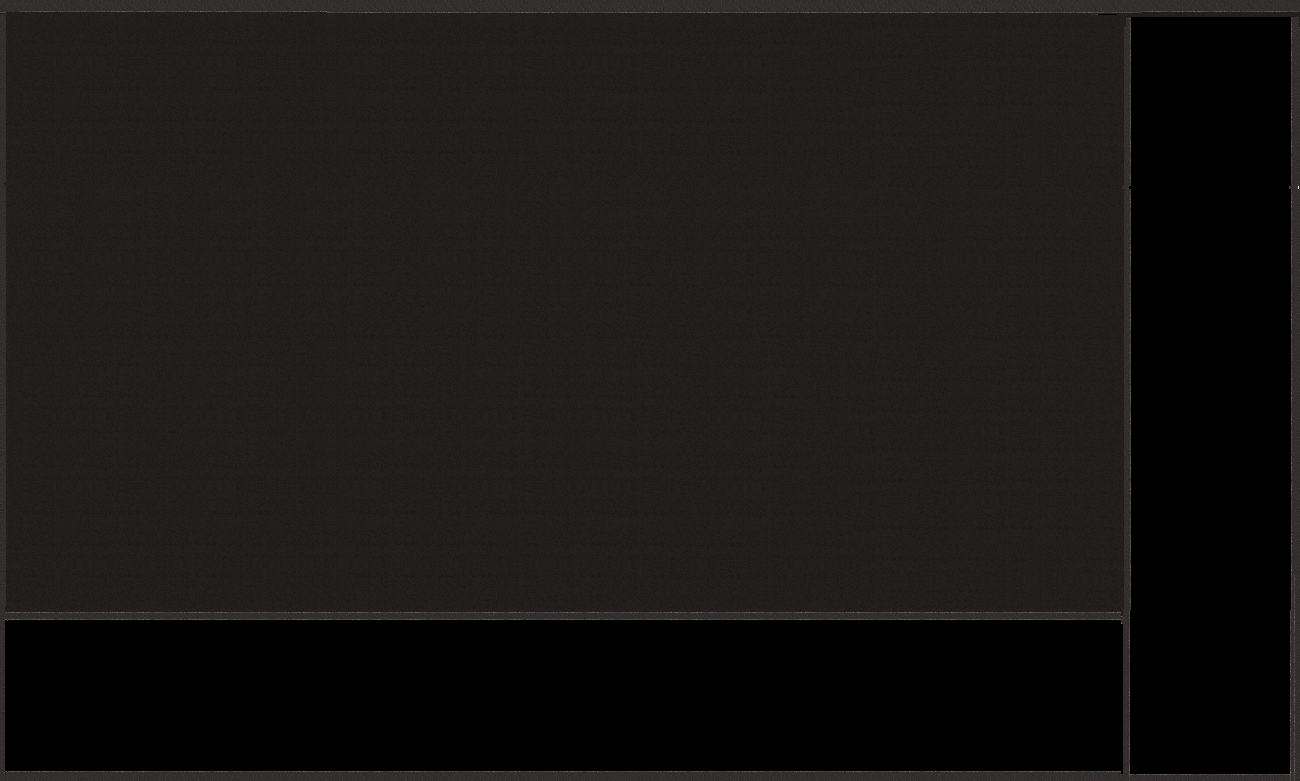
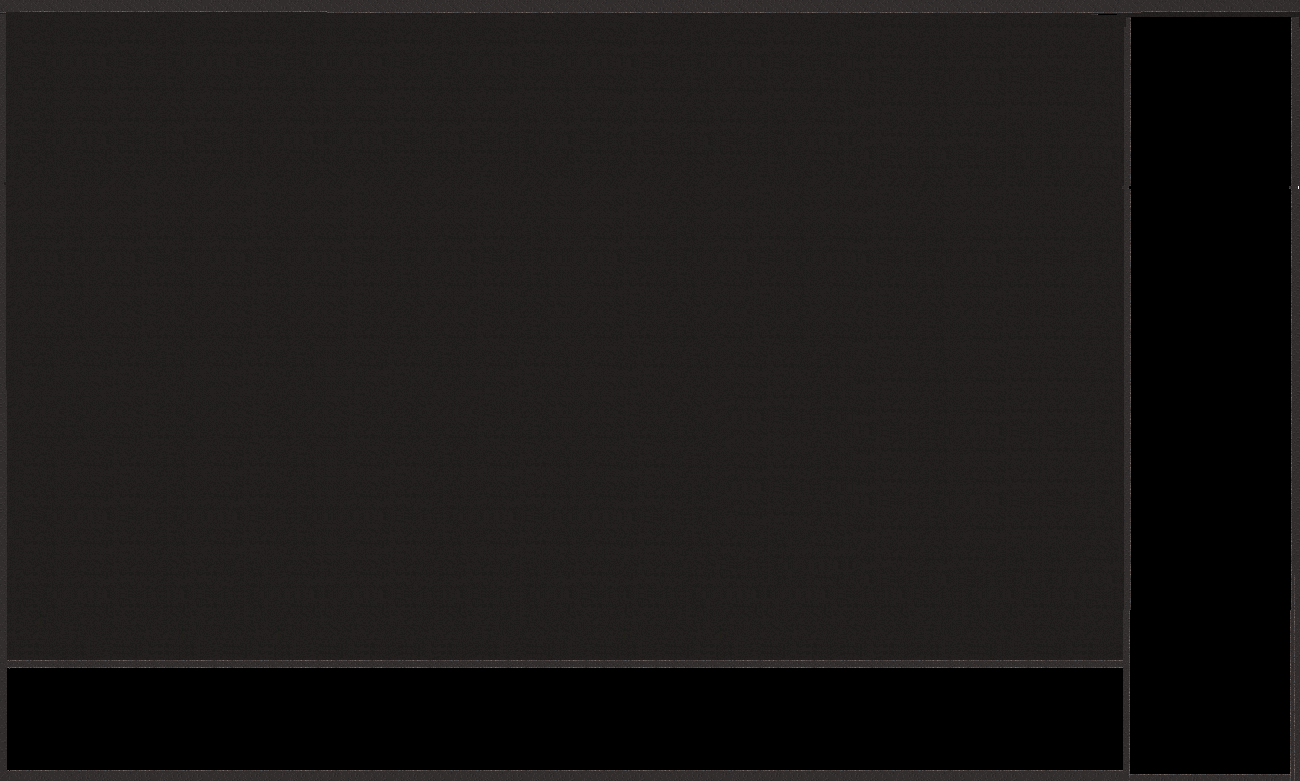
replacement des panels pour utilisateurs du grand plateau

Changed region(s): [[0.0, 0.7682, 0.8615, 0.8604], [0.0, 0.9834, 0.8615, 1.0]]

diff --git a/src/vue/PlateauVue.java b/src/vue/PlateauVue.java
@@ -70,6 +70,8 @@ public class PlateauVue extends JFrame {
 		xPanelsInfos = backgroundimage.getWidth()-157;
 		yGuide = backgroundimage.getHeight()-210;
 		
+		System.out.println(yGuide);
+		
 		PanelCompteur cmpt = new PanelCompteur();
 		this.plateau.add(cmpt,JLayeredPane.DRAG_LAYER );
 		
@@ -133,7 +135,7 @@ public class PlateauVue extends JFrame {
 				setTourJoueur(nouveauJoueur, ind);
 			}
 		});
-		bouton.setBounds(1150, 610, 100, 22);
+		bouton.setBounds(xPanelsInfos+40, 610, 100, 22);
 
 		this.plateau.add(bouton, JLayeredPane.DEFAULT_LAYER);
 
@@ -160,7 +162,7 @@ public class PlateauVue extends JFrame {
 			}
 		});
 		boutonPause.setBackground(new Color(16, 22, 33));
-		boutonPause.setBounds(1110, 610, imageIconPause.getIconWidth(), imageIconPause.getIconHeight());
+		boutonPause.setBounds(xPanelsInfos, 610, imageIconPause.getIconWidth(), imageIconPause.getIconHeight());
 		this.plateau.add(boutonPause, JLayeredPane.DEFAULT_LAYER);
 
 		/** Panel Fin Baitaille **/

diff --git a/src/vue/PanelTerrains.java b/src/vue/PanelTerrains.java
@@ -6,6 +6,8 @@ import java.awt.Font;
 import java.awt.event.MouseAdapter;
 import java.awt.event.MouseEvent;
 import java.awt.event.MouseListener;
+import java.io.File;
+import java.io.IOException;
 import java.util.ArrayList;
 import java.util.HashMap;
 import java.util.List;
@@ -15,6 +17,7 @@ import java.util.TimerTask;
 import java.util.stream.Collectors;
 import java.util.Random;
 
+import javax.imageio.ImageIO;
 import javax.swing.BorderFactory;
 import javax.swing.ImageIcon;
 import javax.swing.JLabel;
